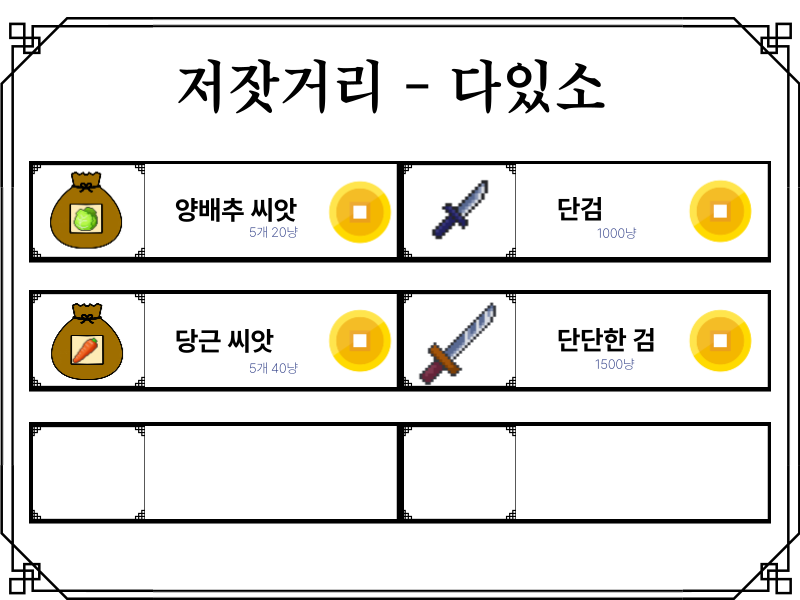
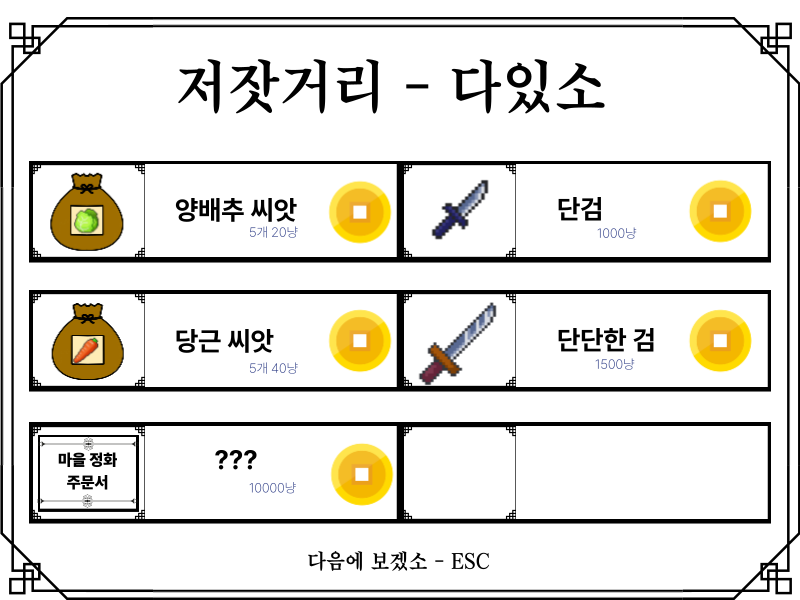
프로젝트 마무리

diff --git a/tile.py b/tile.py
@@ -27,20 +27,31 @@ MAP_W = len(tile_map[0])
 
 tile_images = {}
 
-seed_image = None
-sprout_image = None
-mid_image = None
-crop_image = None
+seed_cabbage = None
+sprout_cabbage = None
+mid_cabbage = None
+crop_cabbage = None
+
+
+seed_carrot = None
+sprout_carrot = None
+mid_carrot = None
+crop_carrot = None
+
 
 # 성장 타이머 (경과 시간 저장)
 seed_timer = [[0 for _ in range(MAP_W)] for _ in range(MAP_H)]
-# 씨앗 맵
+# 씨앗 종류 맵 (0 없음 / cabbage / carrot)
 seed_map = [[0 for _ in range(MAP_W)] for _ in range(MAP_H)]
+seed_type_map = [[0 for _ in range(MAP_W)] for _ in range(MAP_H)]
 # 물 준 상태 맵 (0: 안줌, 1: 물줌)
 water_map = [[0 for _ in range(MAP_W)] for _ in range(MAP_H)]
 
 def load_tile_images():
-    global tile_images, seed_image, sprout_image, mid_image, crop_image
+    global tile_images
+    global seed_cabbage, sprout_cabbage, mid_cabbage, crop_cabbage
+    global seed_carrot, sprout_carrot, mid_carrot, crop_carrot
+
 
     tile_images = {
         0: load_image('a_grass.png'),
@@ -49,10 +60,17 @@ def load_tile_images():
         3: load_image('water_ground.png')   # 물 뿌린 밭
     }
 
-    seed_image = load_image('seed.png')  # 1단계
-    sprout_image = load_image('farm_cabbage01.png')  # 2단계
-    mid_image = load_image('farm_cabbage02.png')  # 3단계 중간풀
-    crop_image = load_image('farm_cabbage03.png')  # 4단계 완성작물
+    seed_cabbage = load_image('seed_cabbage_farming.png')  # 1단계
+    sprout_cabbage = load_image('farm_cabbage01.png')  # 2단계
+    mid_cabbage = load_image('farm_cabbage02.png')  # 3단계 중간풀
+    crop_cabbage = load_image('farm_cabbage03.png')  # 4단계 완성작물
+
+    seed_carrot = load_image('seed_carrot_farming.png')  # 1단계
+    sprout_carrot = load_image('farm_carrot01.png')  # 2단계
+    mid_carrot = load_image('farm_carrot02.png')  # 3단계 중간풀
+    crop_carrot = load_image('farm_carrot03.png')  # 4단계 완성작물
+
+
 
 
 # 타일 맵 그리기
@@ -68,43 +86,46 @@ def draw_tile_map():
                                            ((MAP_H - y) * tile) - 40,
                                            tile, tile)
 
-            # 씨앗이 있는 경우 씨앗 이미지 그리기
-            if seed_map[y][x] == 1:
-                seed_image.draw((x * tile) + 20,
-                                ((MAP_H - y) * tile) - 40,
-                                20, 20)  # 적당한 크기
-
-            # 씨앗 단계: 0 없음 / 1 씨앗 / 2 새싹 / 3 중간풀 / 4 작물
+            # 씨앗 단계별 이미지 그리기
             stage = seed_map[y][x]
 
-            if stage == 1:
-                seed_image.draw(px, py, 20, 20)
+            if stage > 0:
+                seed_type = seed_type_map[y][x]
 
-            elif stage == 2:
-                sprout_image.draw(px, py+10, 60,60)
-
-            elif stage == 3:
-                mid_image.draw(px, py+15,80, 80)
-
-            elif stage == 4:
-                crop_image.draw(px, py+15, 80, 80)
+                if seed_type == "cabbage":
+                    images = (seed_cabbage, sprout_cabbage, mid_cabbage, crop_cabbage)
+                    sizes = ((20, 20), (40, 40), (55, 55), (70, 70))
+                elif seed_type == "carrot":
+                    images = (seed_carrot, sprout_carrot, mid_carrot, crop_carrot)
+                    sizes = ((40, 40), (40, 40), (55, 55), (70, 70))
+                else:
+                    continue
+                img = images[stage - 1]
+                w, h = sizes[stage - 1]
+                img.draw(px, py+10, w, h)
 
 
 # 타일 변경(땅 → 밭 만들기)
 def change_tile(tx, ty):
     if 0 <= tx < MAP_W and 0 <= ty < MAP_H:
-        tile_map[ty][tx] = 2
-
+        if tile_map[ty][tx] == 3:
+            return
+        if tile_map[ty][tx] == 2:
+            return
+        if tile_map[ty][tx] in (0, 1):
+            tile_map[ty][tx] = 2
 
 # 씨앗 심기 함수
-def plant_seed(tx, ty):
-    if tile_map[ty][tx] == 2:
-        seed_map[ty][tx] = 1    # 씨앗
-        seed_timer[ty][tx] = 0  # 시간 0부터 시작
-        return True
-    else:
+def plant_seed(tx, ty, seed_type):
+    if tile_map[ty][tx] not in (2, 3):
         print("씨앗은 갈아놓은 밭에만 심을 수 있습니다.")
         return False
+
+    seed_map[ty][tx] = 1
+    seed_type_map[ty][tx] = seed_type
+    seed_timer[ty][tx] = 0
+    return True
+
 
 # 물 뿌리기 함수
 def water_tile(tx, ty):
@@ -150,10 +171,21 @@ def update_seed_growth(dt):
 def harvest(tx, ty):
 
     if seed_map[ty][tx] == 4:
+        if seed_map[ty][tx] != 4:
+            return False
+
+        seed_type = seed_type_map[ty][tx]
+
         print("작물 수확!")
 
-        play_mode.inventory.add_item("farm_cabbage03.png")
-
+        # 씨앗 종류에 따라 다른 작물 지급
+        if seed_type == "cabbage":
+            play_mode.inventory.add_item("farm_cabbage03.png")
+        elif seed_type == "carrot":
+            play_mode.inventory.add_item("farm_carrot03.png")
+        else:
+            print("ERROR: seed_type 없어서 작물이 추가되지 않음!")
+            return False
         seed_map[ty][tx] = 0       # 작물 제거
         seed_timer[ty][tx] = 0     # 타이머 초기화
         water_map[ty][tx] = 0      # 물 상태 초기화

diff --git a/play_mode.py b/play_mode.py
@@ -16,16 +16,18 @@ from option import OptionMenu
 character = None
 inventory = None
 option_menu = None
-
+select_image=None
 snap_x = None
 snap_y = None
 
 # tile_mode (1->괭이질, 2->씨앗심기)
 tile_mode = 1
 def init():
-    global character, inventory, option_menu
+    global character, inventory, option_menu, select_image
     option_menu = OptionMenu()
     inventory = Inventory()
+
+    select_image = load_image("select.png")
 
     if player_data.inventory is None:
         inventory = Inventory()
@@ -70,21 +72,30 @@ def handle_events():
         # 타일모드 변경
         if e.type == SDL_KEYDOWN:
             if e.key == SDLK_1:
-                tile_mode = 1
+                tile_mode = 1  # 괭이
                 print("1 - 괭이 선택")
                 continue
+
             elif e.key == SDLK_2:
-                tile_mode = 2
-                print("2 - 씨앗 선택")
+                tile_mode = 2  # 물뿌리개
+                print("2 - 물뿌리개 선택")
                 continue
+
             elif e.key == SDLK_3:
-                tile_mode = 3
-                print("3 - 물뿌리개 선택")
+                tile_mode = 3  # 낫(수확)
+                print("3 - 낫 선택")
                 continue
+
             elif e.key == SDLK_4:
-                tile_mode = 4
-                print("4 - 손(수확) 선택")
+                tile_mode = 4  # 양배추 씨앗
+                print("4 - 양배추 씨앗 선택")
                 continue
+
+            elif e.key == SDLK_5:
+                tile_mode = 5  # 당근 씨앗
+                print("5 - 당근 씨앗 선택")
+                continue
+
             elif e.key == SDLK_i:
                 inventory.toggle()
                 continue
@@ -134,22 +145,44 @@ def handle_events():
 
                     if tile_mode == 1:
                         tile.change_tile(snap_x, snap_y)
+
                     elif tile_mode == 2:
+                        tile.water_tile(snap_x, snap_y)
+
+                    elif tile_mode == 3:
+                        tile.harvest(snap_x, snap_y)
+
+
+                    elif tile_mode == 4:
+
                         seed_item = "seed_cabbage.png"
 
-                        # 씨앗 보유 체크
                         if not inventory.has_item(seed_item):
-                            print("씨앗이 없습니다!")
+                            print("양배추 씨앗이 없습니다!")
+
                             continue
 
-                        # 씨앗을 타일에 심기
-                        if tile.plant_seed(snap_x, snap_y):
+                        if tile.plant_seed(snap_x, snap_y, "cabbage"):
                             inventory.consume_item(seed_item)
-                            print("씨앗 1개 사용됨")
-                    elif tile_mode == 3:
-                        tile.water_tile(snap_x, snap_y)
-                    elif tile_mode == 4:
-                        tile.harvest(snap_x, snap_y)
+
+                            print("양배추 씨앗 1개 사용됨")
+
+
+                    elif tile_mode == 5:
+
+                        seed_item = "seed_carrot.png"
+
+                        if not inventory.has_item(seed_item):
+                            print("당근 씨앗이 없습니다!")
+
+                            continue
+
+                        if tile.plant_seed(snap_x, snap_y, "carrot"):
+                            inventory.consume_item(seed_item)
+
+                            print("당근 씨앗 1개 사용됨")
+
+
                 else:
                     print("캐릭터 주변 1칸만 변경 가능")
             continue
@@ -192,6 +225,7 @@ def draw():
 
     draw_gold_ui()
 
+    select_image.draw(50,400, 150, 350)
     if snap_x is not None and snap_y is not None:
         left = snap_x * tile.tile
         right = left + tile.tile

diff --git a/shop_mode.py b/shop_mode.py
@@ -20,7 +20,19 @@ def init():
             "name": "양배추 씨앗",
             "item_file": "seed_cabbage.png",
             "price": 20,
-            "button": (750, 400, 820, 470)  # 엽전 버튼 좌표
+            "button": (330, 360, 400, 415)  # 엽전 버튼 좌표
+        },
+        {
+            "name": "당근 씨앗",
+            "item_file": "seed_carrot.png",
+            "price": 40,
+            "button": (330, 230, 400, 285)  # 엽전 버튼 좌표
+        },
+        {
+            "name": "???",
+            "item_file": "key.png",
+            "price": 10000,
+            "button": (330, 100, 400, 155)  # 엽전 버튼 좌표
         }
     ]
 
@@ -51,7 +63,6 @@ def draw():
         x1, y1, x2, y2 = item["button"]
         cx = (x1 + x2) // 2
         cy = (y1 + y2) // 2
-        draw_rectangle(x1, y1, x2, y2)
     update_canvas()
 
 
@@ -70,9 +81,14 @@ def check_purchase(mx, my):
             # 골드 차감
             player_data.gold -= price
 
-            print(f"{item['name']} 구매 완료! -{price}냥")
-
             # 인벤토리에 추가
             inv = player_data.inventory
+            if item["item_file"] == "seed_cabbage.png" or item["item_file"] == "seed_carrot.png":
+                print(f"{item['name']} 5개 구매 완료! -{price}냥")
+                for _ in range(4):
+                    inv.add_item(item["item_file"])
+            else:
+                print(f"{item['name']} 구매 완료! -{price}냥")
+                inv.add_item(item["item_file"])
             inv.add_item(item["item_file"])
             return

diff --git a/title_mode.py b/title_mode.py
@@ -9,6 +9,7 @@ def init():
     global image
 
     image = load_image("title.png")
+    image =  load_image("HowTo.png")
 
 def update():
     pass
@@ -17,6 +18,7 @@ def draw():
     # 타이틀 이미지를 그려줌
     clear_canvas()
     image.draw(400, 300,800,600)
+
     update_canvas()
 
 def finish():
@@ -31,5 +33,7 @@ def handle_events():
             game_framework.quit()
         elif event.type == SDL_KEYDOWN and event.key == SDLK_ESCAPE:
             game_framework.quit()
+        elif event.type == SDL_KEYDOWN and event.key == SDLK_z:
+
         elif event.type == SDL_KEYDOWN and event.key == SDLK_SPACE:
             game_framework.change_mode(play_mode)

diff --git a/item_data.py b/item_data.py
@@ -2,6 +2,7 @@
 
 ITEM_PRICES = {
     "farm_cabbage03.png": 10,
+    "farm_carrot03.png": 20
 }
 
 def get_price(item_name):
